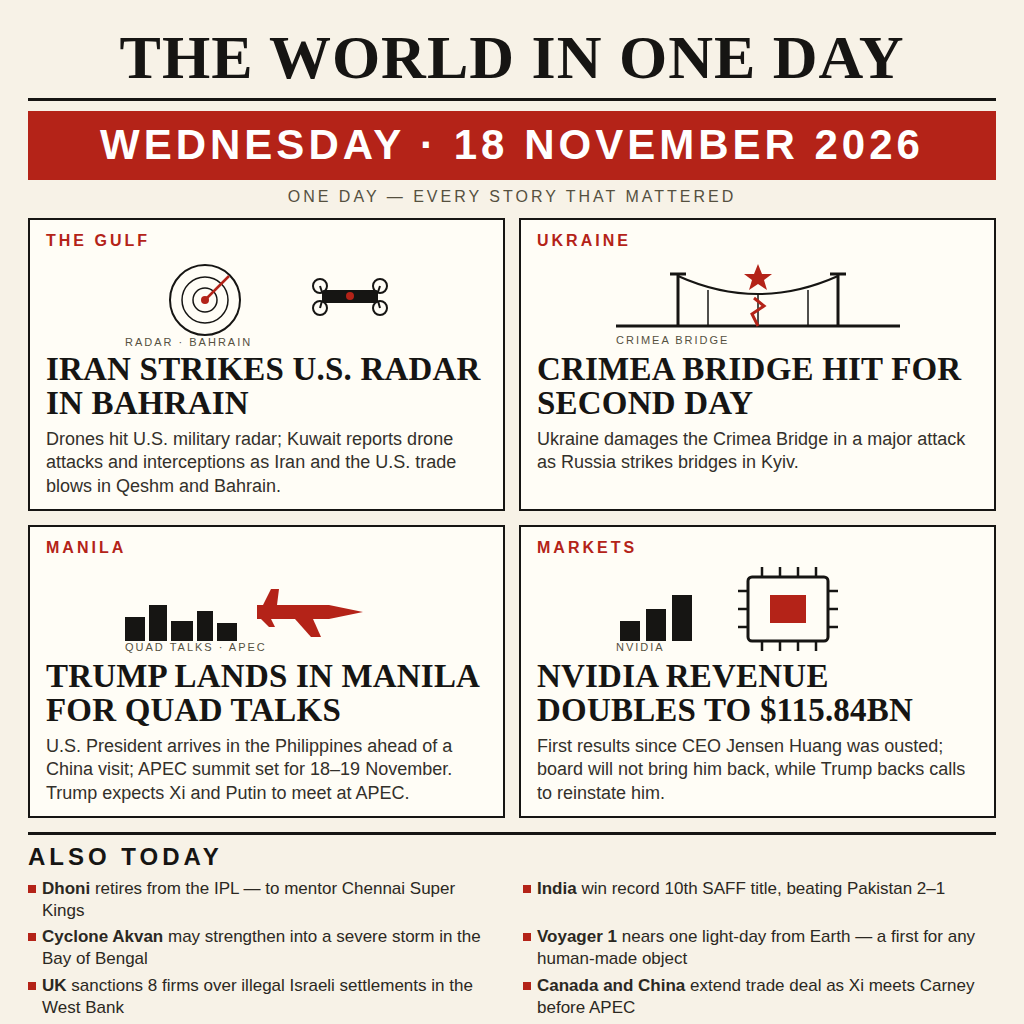
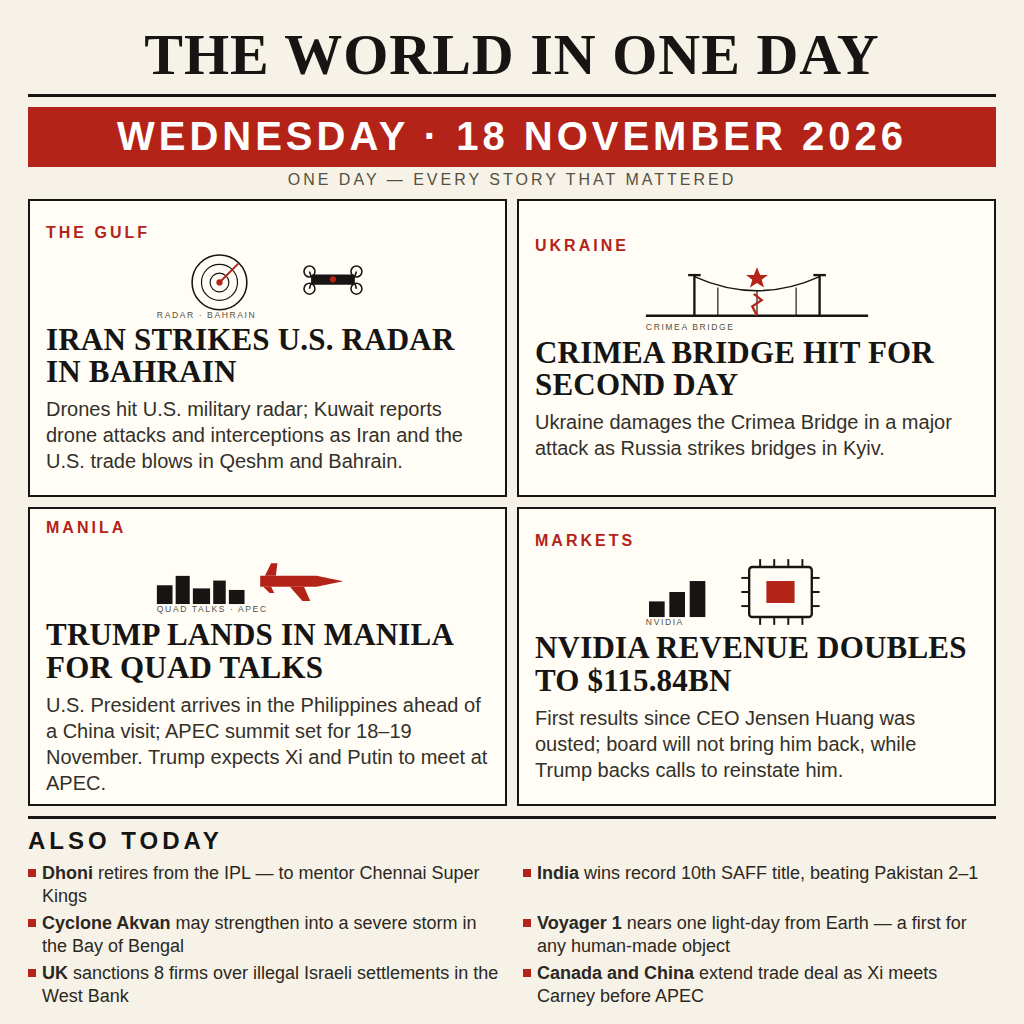
Review fixes: grammar, legibility, layout fit
- Fix 'India win' -> 'India wins' (SAFF brief)
- Larger subheads (20px) and briefs (18px) for legibility
- Reclaim vertical space so the page fits exactly 1024px
  (no clipped briefs): smaller art, tighter masthead/padding
- Vertically centre panel content; README build-path wording

Changed region(s): [[0.0312, 0.0312, 0.9688, 1.0]]

diff --git a/README.md b/README.md
@@ -25,9 +25,10 @@ no AI-generated imagery, no garbled text.
 
 ## How it was built
 
-`build/page.html` holds the front page (HTML/CSS with inline SVG art) and
-`build/shot/shot.mjs` renders it with headless Chromium at exactly
-1024×1024. The shipped `entry.png` is that render.
+`page.html` holds the front page (HTML/CSS with inline SVG art) and
+`shot/shot.mjs` renders it with headless Chromium at exactly
+1024×1024. The shipped `entry.png` is that render. (The build sources
+live outside this repository; only the rendered image ships here.)
 
 ## The program
 
